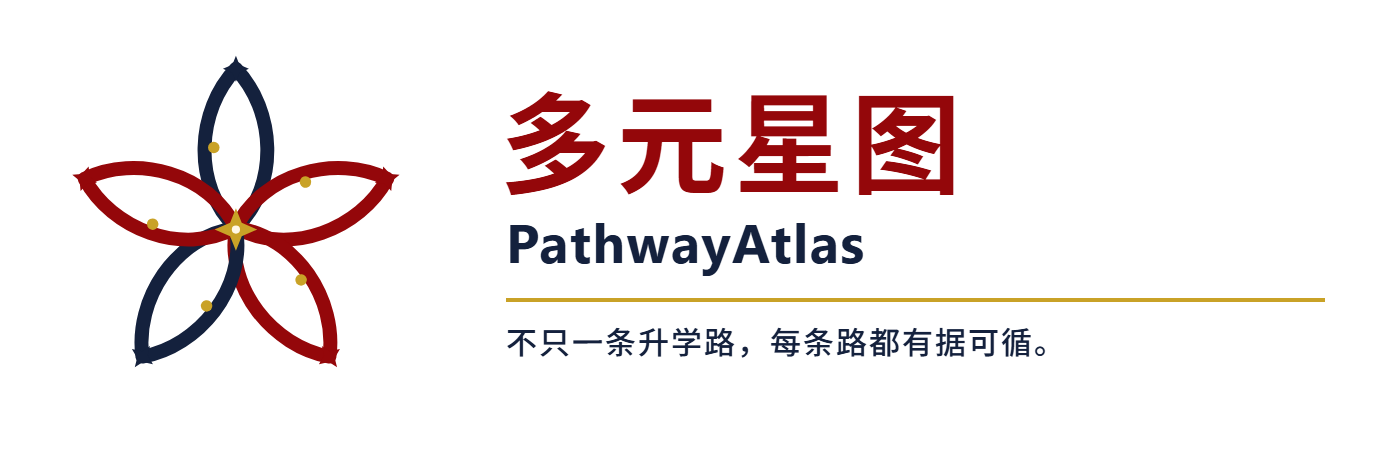
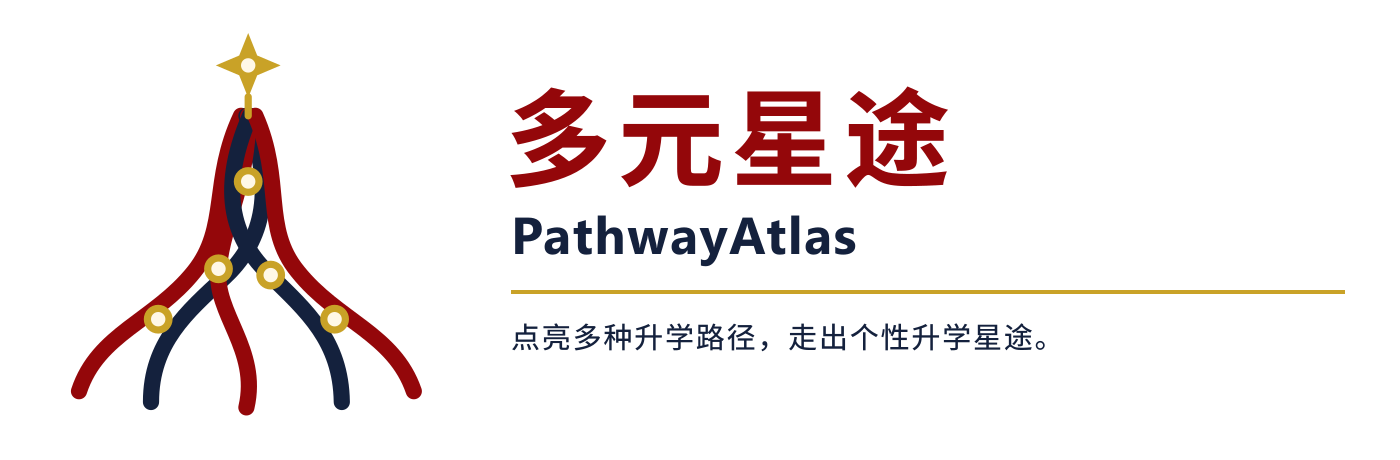
feat: evolve PathwayAtlas into 多元星途

diff --git a/tests/test_brand_identity.py b/tests/test_brand_identity.py
@@ -11,11 +11,16 @@ from pathlib import Path
 ROOT = Path(__file__).resolve().parents[1]
 BRAND = ROOT / "assets" / "brand"
 PROMPT = (
-    "> **复制给 AI：**「请调用 `pathway-atlas`（多元星图）Skill。"
-    "先询问我的省份、选科、分数或位次和升学意向；不要索取姓名、电话、身份证、住址或本地文件路径。"
+    "> **复制给 AI：**「请使用你当前环境的 Skill 安装能力，从 GitHub "
+    "`https://github.com/sarry12227/pathway-atlas` 安装 `pathway-atlas`（多元星途）；"
+    "如果 GitHub 无法访问，请改用 Gitee 镜像 `https://gitee.com/sarry1/pathway-atlas`。"
+    "若环境没有专用安装工具，请将仓库克隆或下载到当前 Agent 的 Skills 目录，确认根目录存在 "
+    "`SKILL.md` 且其中 `name` 为 `pathway-atlas`，然后重新加载并调用它。"
+    "调用后先询问我的省份、选科、分数或位次和升学意向；不要索取姓名、电话、身份证、住址或本地文件路径。"
     "请基于可验证的公开来源，先验证证据再计算，为我分析普通批冲稳保及适合的多元升学路径，"
     "并在每项建议旁标注来源、证据状态、覆盖范围和不确定性。」"
 )
+CURRENT_OLD_BRAND = "多元星图"
 OLD_SLUG = "shengxue" + "-skill"
 OLD_DIST = "shengxue" + "_skill"
 HISTORICAL_PREFIXES = (
@@ -56,8 +61,8 @@ class BrandIdentityTest(unittest.TestCase):
     def test_readme_uses_primary_brand_lockup(self) -> None:
         readme = (ROOT / "README.md").read_text(encoding="utf-8")
         self.assertIn("assets/brand/pathway-atlas-horizontal.svg", readme)
-        self.assertIn("# 多元星图 · PathwayAtlas", readme)
-        self.assertIn("不只一条升学路，每条路都有据可循。", readme)
+        self.assertIn("# 多元星途 · PathwayAtlas", readme)
+        self.assertIn("点亮多种升学路径，走出个性升学星途。", readme)
 
     def test_brand_assets_are_safe_and_parseable(self) -> None:
         svg_names = (
@@ -71,6 +76,7 @@ class BrandIdentityTest(unittest.TestCase):
                 root = ElementTree.fromstring(data)
                 self.assertTrue(root.tag.endswith("svg"))
                 self.assertNotIn(b"<script", data.lower())
+                self.assertNotIn(CURRENT_OLD_BRAND.encode("utf-8"), data)
                 external_values = [
                     value
                     for element in root.iter()
@@ -78,6 +84,15 @@ class BrandIdentityTest(unittest.TestCase):
                     if value.lower().startswith(("http://", "https://"))
                 ]
                 self.assertEqual(external_values, [])
+                ids = {element.attrib.get("id") for element in root.iter()}
+                self.assertTrue(
+                    {"path-origin", "evidence-node", "guiding-star"}.issubset(ids),
+                    f"{name} must encode the progression semantics",
+                )
+
+                if name != "pathway-atlas-monochrome.svg":
+                    for color in (b"#94070A", b"#14213D", b"#C9A227"):
+                        self.assertIn(color, data)
 
         for name in ("pathway-atlas-mark.png", "pathway-atlas-horizontal.png"):
             with self.subTest(name=name):
@@ -90,6 +105,14 @@ class BrandIdentityTest(unittest.TestCase):
         for relative, text in _tracked_text_files().items():
             if OLD_SLUG in text or OLD_DIST in text:
                 findings.append(relative)
+        self.assertEqual(findings, [])
+
+    def test_current_public_surfaces_have_no_retired_chinese_brand(self) -> None:
+        findings = [
+            relative
+            for relative, text in _tracked_text_files().items()
+            if CURRENT_OLD_BRAND in text
+        ]
         self.assertEqual(findings, [])
 
 
